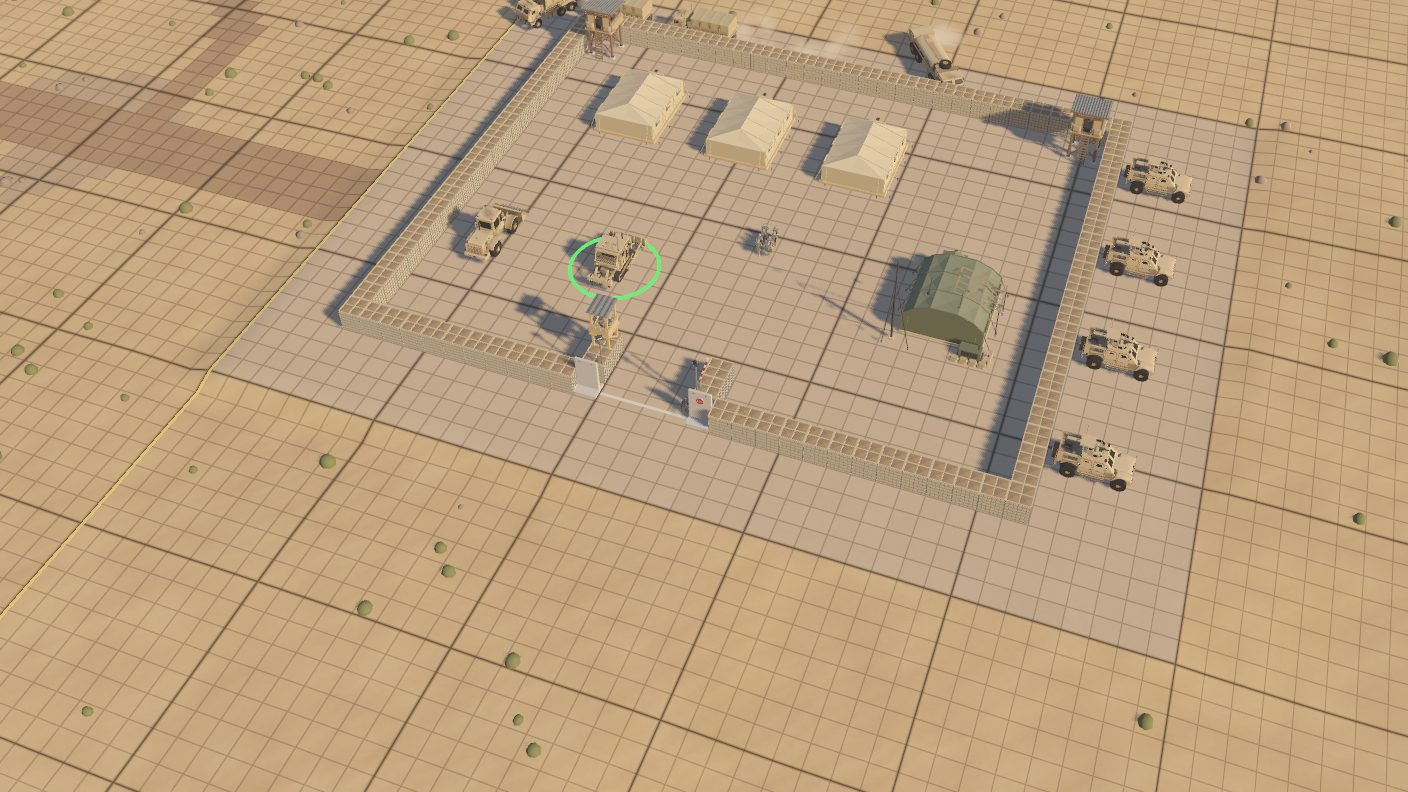
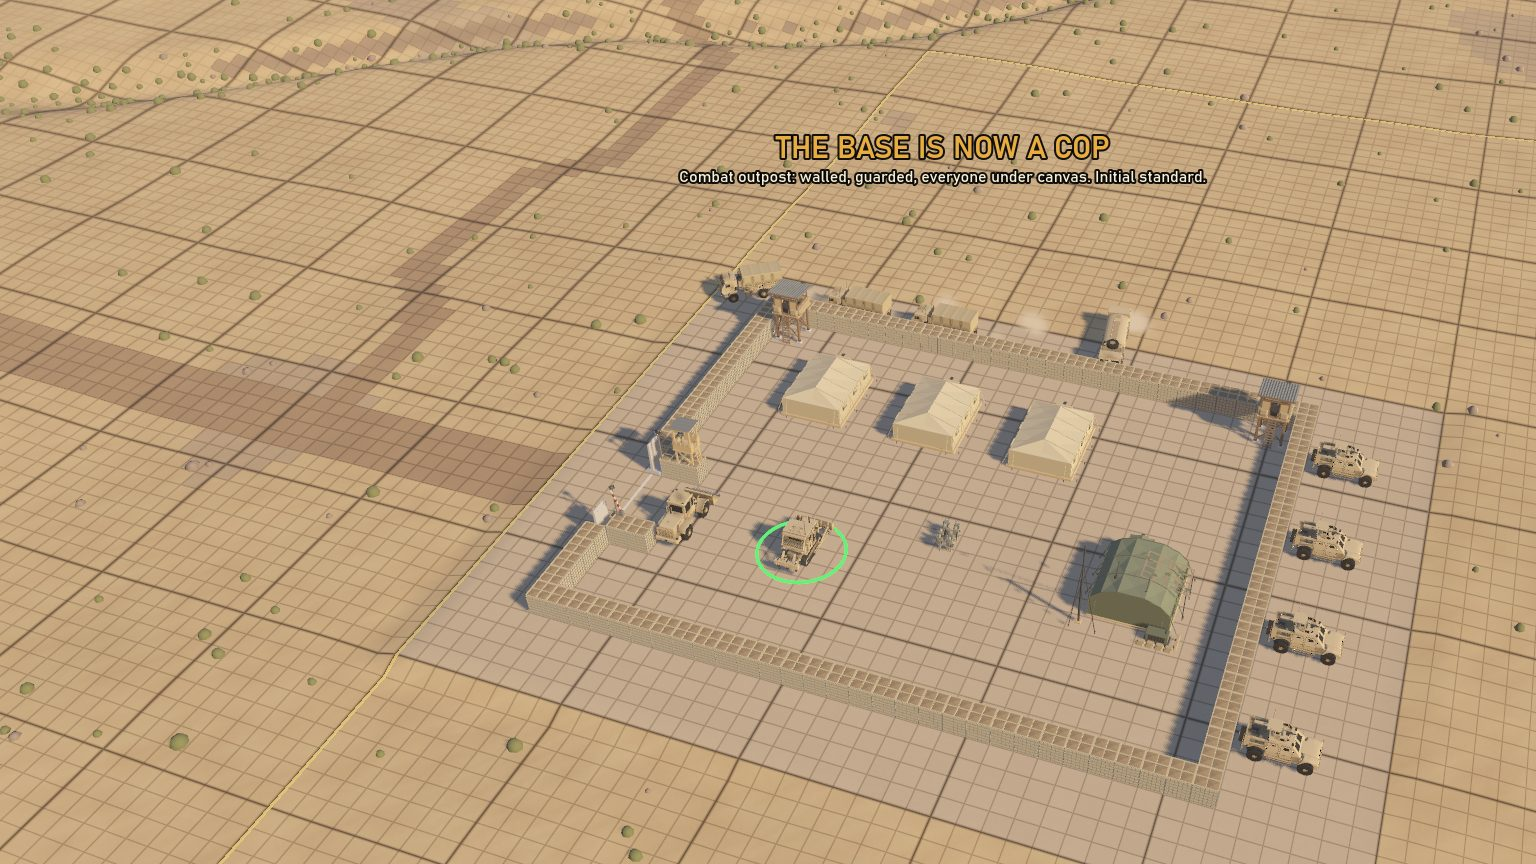
Site from foothold 5ef6403

diff --git a/index.html b/index.html
@@ -255,7 +255,7 @@ dialog p { color: var(--fg); text-align: center; padding-top: 10px; font-size: 1
   <div class="wrap">
 
     <div class="feature">
-      <figure><img src="img/build.jpg" alt="A small walled outpost on the build grid: HESCO walls, guard towers and tents" data-caption="A combat outpost on the build grid: HESCO, towers, tents and the gate"></figure>
+      <figure><img src="img/build.jpg" alt="A small walled outpost on the build grid: HESCO walls, guard towers, tents, and the gate facing the track in" data-caption="A combat outpost on the build grid: HESCO, towers, tents, and the gate where the track comes in"></figure>
       <div class="text">
         <div class="eyebrow">Build</div>
         <h3>From bare ground to a walled base</h3>
